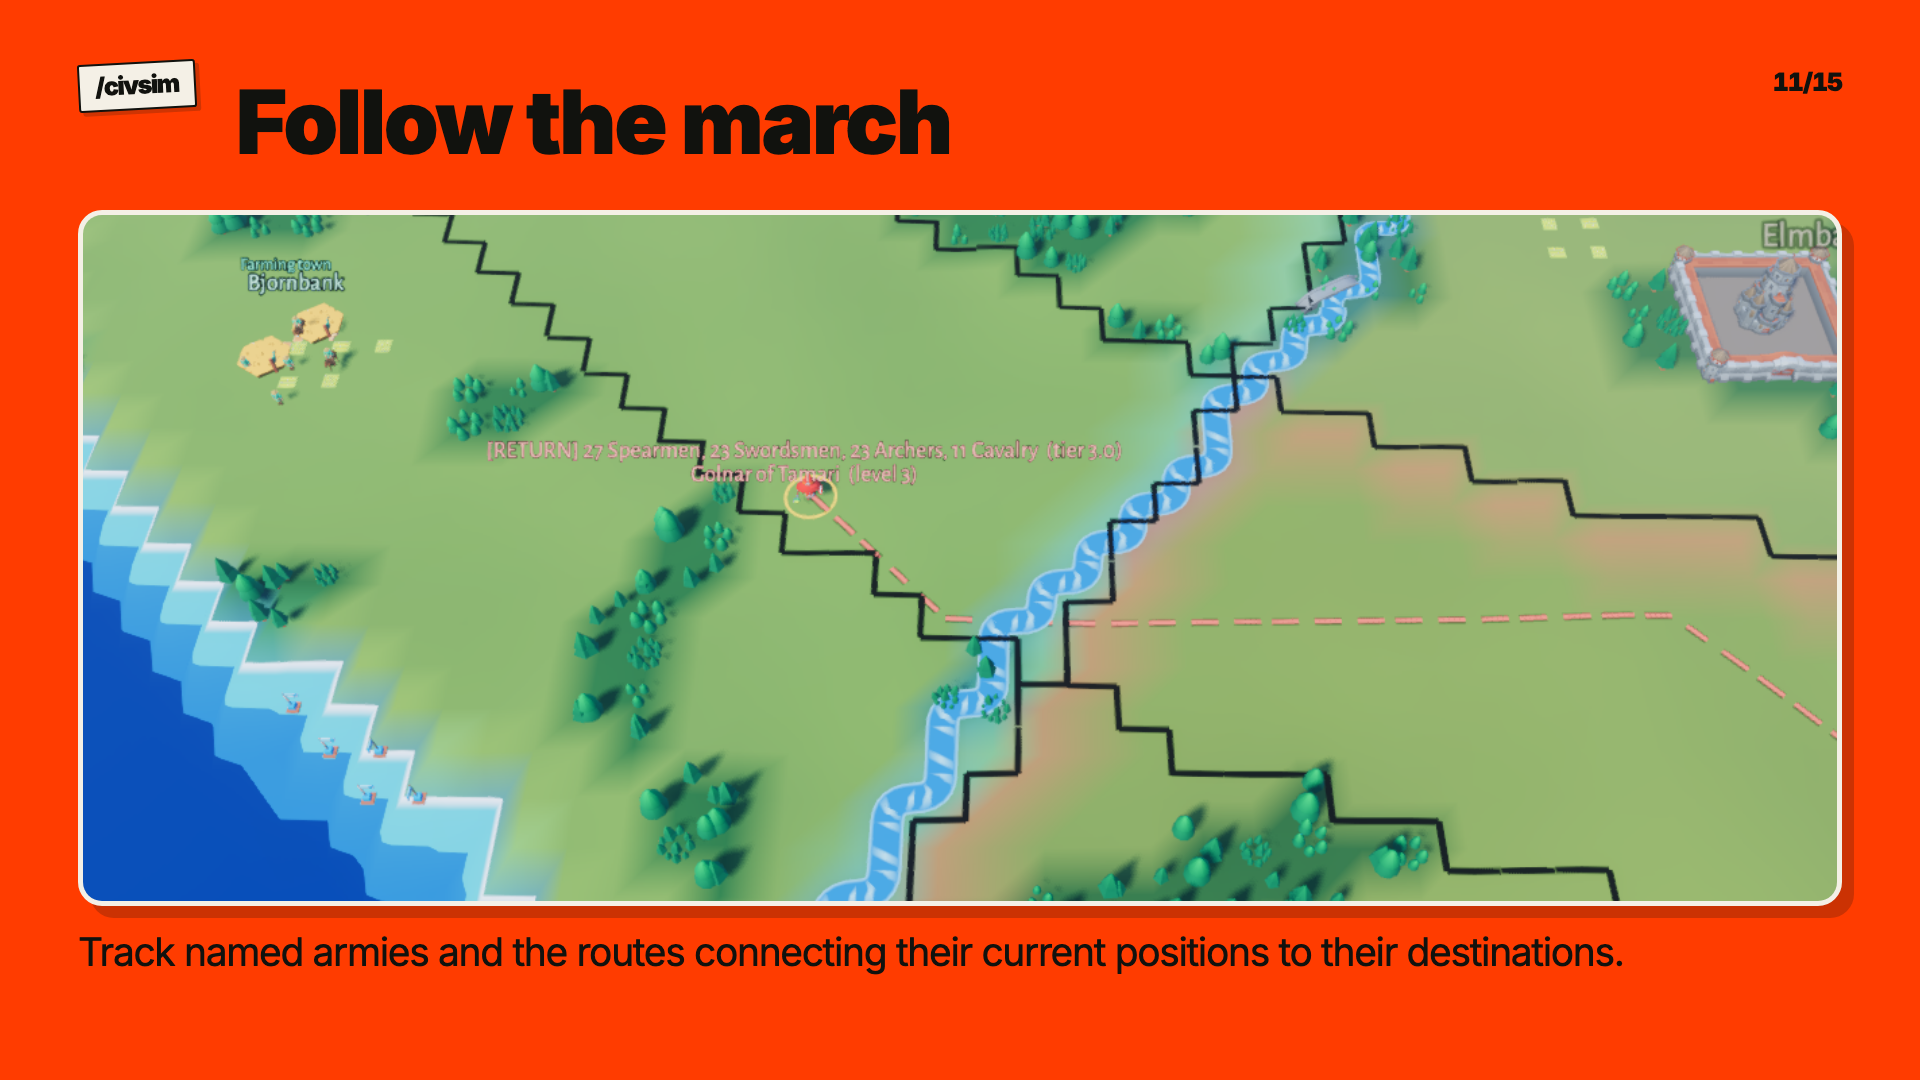
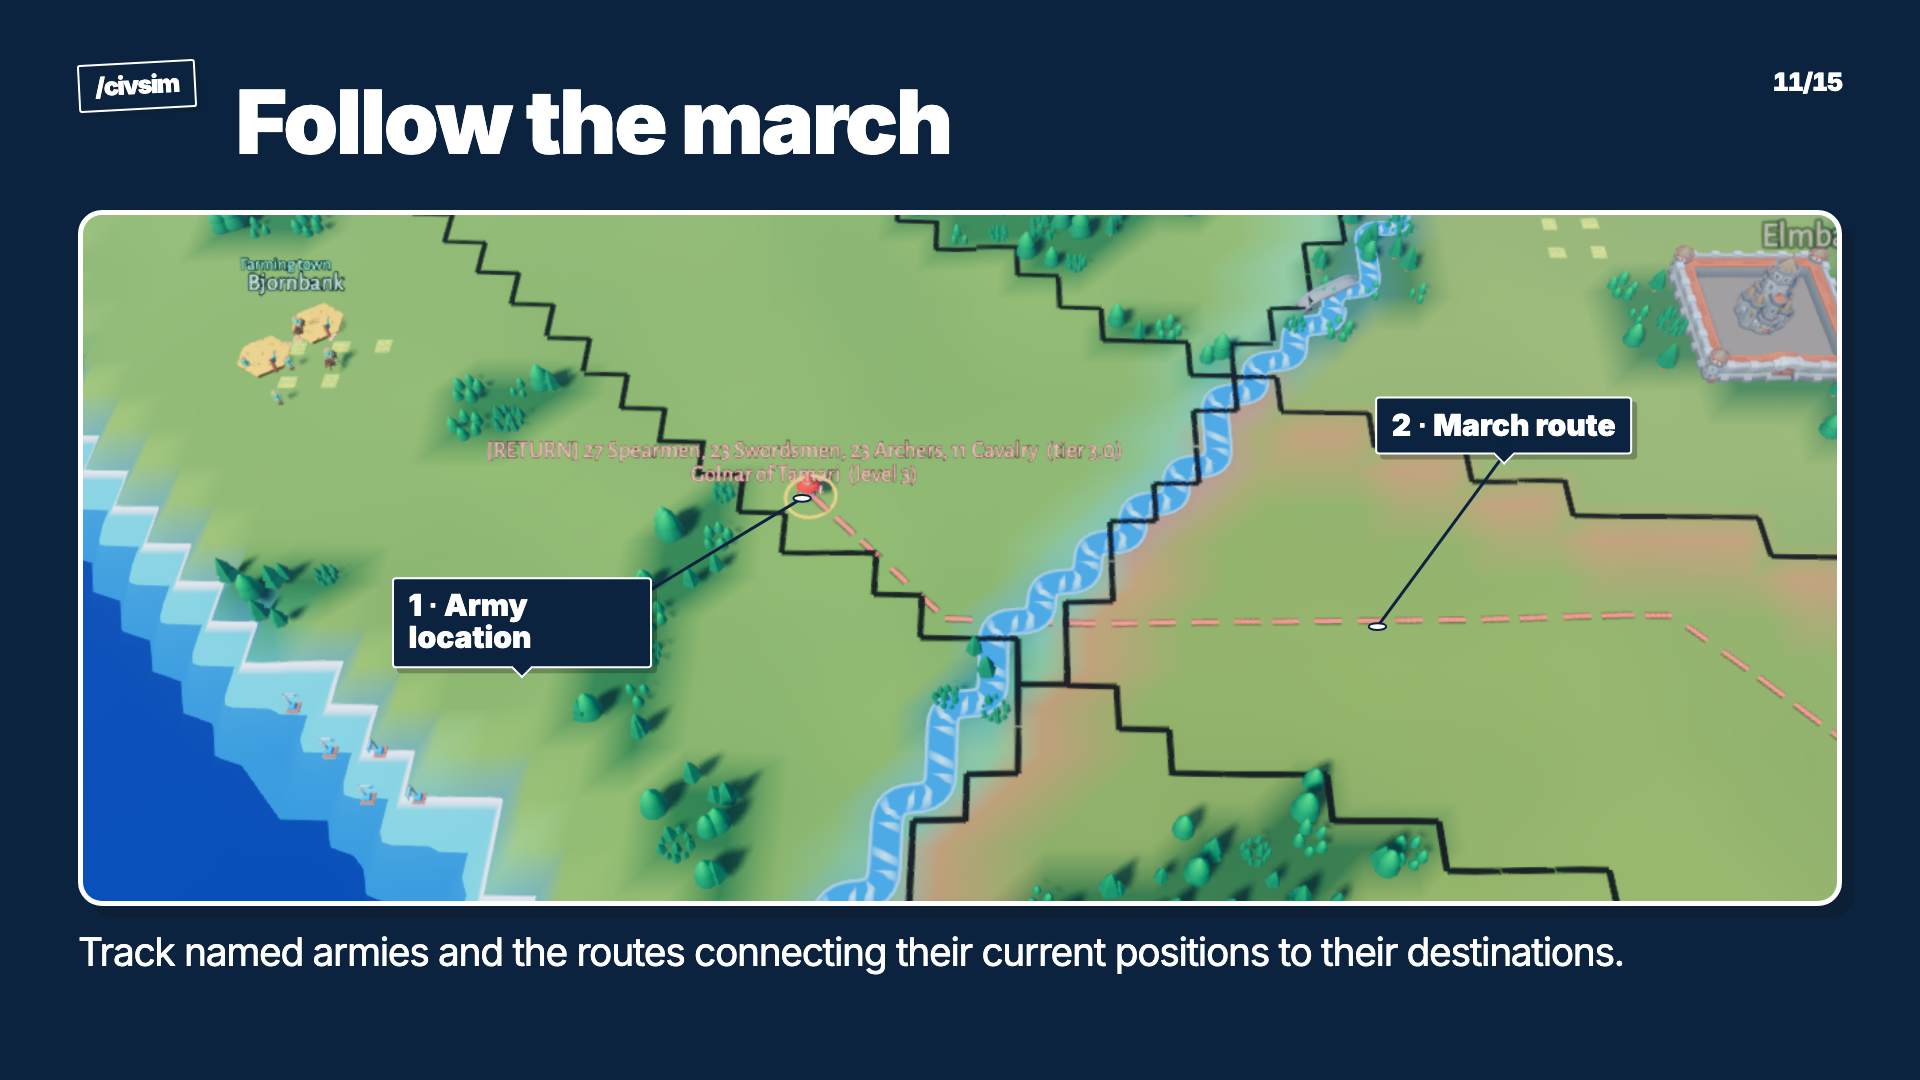
Polish 15 feature cards in navy and white with authentic campaign captures

diff --git a/GALLERY.md b/GALLERY.md
@@ -2,26 +2,27 @@
 
 Fifteen annotated views from development builds. Gameplay and presentation are still evolving.
 
-[← Project overview](README.md)
+**Tap or click any image to open it at full resolution.** Each feature also has a readable text caption below the image. Detail panels are excerpts from the same game view.
 
+[← Project overview](README.md)
 
 ## Choose your campaign
 
 ### 01. Rule a realm. Watch a world.
 
-![Rule a realm. Watch a world.. Take the crown yourself, or follow rival kingdoms as they build, negotiate and fight.](screenshots/features/01-choice.png)
+[![Rule a realm. Watch a world. Take the crown yourself, or follow rival kingdoms as they build, negotiate and fight.](screenshots/features/01-choice.png)](screenshots/features/01-choice.png)
 
 Take the crown yourself, or follow rival kingdoms as they build, negotiate and fight.
 
 ### 02. A world of rival kingdoms
 
-![A world of rival kingdoms. Follow changing borders, competing rulers and the alliances that connect their realms.](screenshots/features/02-world.png)
+[![A world of rival kingdoms. Follow changing borders, competing rulers and the alliances that connect their realms.](screenshots/features/02-world.png)](screenshots/features/02-world.png)
 
 Follow changing borders, competing rulers and the alliances that connect their realms.
 
 ### 03. Choose your battlefield
 
-![Choose your battlefield. Explore nine handcrafted maps, with room for six civilizations on every large map.](screenshots/features/03-maps.png)
+[![Choose your battlefield. Explore nine handcrafted maps, with room for six civilizations on every large map.](screenshots/features/03-maps.png)](screenshots/features/03-maps.png)
 
 Explore nine handcrafted maps, with room for six civilizations on every large map.
 
@@ -29,19 +30,19 @@ Explore nine handcrafted maps, with room for six civilizations on every large ma
 
 ### 04. Build a thriving realm
 
-![Build a thriving realm. Inspect a castle, its buildings and its people as your settlements grow.](screenshots/features/04-settlement.png)
+[![Build a thriving realm. Inspect a castle, its buildings and its people as your settlements grow.](screenshots/features/04-settlement.png)](screenshots/features/04-settlement.png)
 
 Inspect a castle, its buildings and its people as your settlements grow.
 
 ### 05. Shape your realm’s future
 
-![Shape your realm’s future. Choose research paths and see which civilizations have discovered each technology.](screenshots/features/05-research.png)
+[![Shape your realm’s future. Choose research paths and see which civilizations have discovered each technology.](screenshots/features/05-research.png)](screenshots/features/05-research.png)
 
 Choose research paths and see which civilizations have discovered each technology.
 
 ### 06. Choose your allies carefully
 
-![Choose your allies carefully. See who stands together as rivalries develop and kingdoms answer their allies’ calls.](screenshots/features/06-alliances.png)
+[![Choose your allies carefully. See who stands together as rivalries develop and kingdoms answer their allies’ calls.](screenshots/features/06-alliances.png)](screenshots/features/06-alliances.png)
 
 See who stands together as rivalries develop and kingdoms answer their allies’ calls.
 
@@ -49,58 +50,58 @@ See who stands together as rivalries develop and kingdoms answer their allies’
 
 ### 07. Give your realm direction
 
-![Give your realm direction. Set priorities, queue construction and research, and follow your orders as they progress.](screenshots/features/07-orders.png)
+[![Give your realm direction. Set priorities, queue construction and research, and follow your orders as they progress.](screenshots/features/07-orders.png)](screenshots/features/07-orders.png)
 
 Set priorities, queue construction and research, and follow your orders as they progress.
 
 ### 08. Understand the ruler
 
-![Understand the ruler. Read a realm’s concerns, its ruler’s outlook and its relationships with other civilizations.](screenshots/features/08-outlook.png)
+[![Understand the ruler. Read a realm’s concerns, its ruler’s outlook and its relationships with other civilizations.](screenshots/features/08-outlook.png)](screenshots/features/08-outlook.png)
 
 Read a realm’s concerns, its ruler’s outlook and its relationships with other civilizations.
 
 ### 09. Every crown has a family
 
-![Every crown has a family. Follow marriages, heirs and succession through the royal family tree.](screenshots/features/09-dynasty.png)
+[![Every crown has a family. Meet the current ruler and named heir in the royal family tree.](screenshots/features/09-dynasty.png)](screenshots/features/09-dynasty.png)
 
-Follow marriages, heirs and succession through the royal family tree.
+Meet the current ruler and named heir in the royal family tree.
 
 ## Command your armies
 
 ### 10. Meet your commanders
 
-![Meet your commanders. Inspect the general leading an army and the troops under their command.](screenshots/features/10-commanders.png)
+[![Meet your commanders. Inspect the general leading an army and the troops under their command.](screenshots/features/10-commanders.png)](screenshots/features/10-commanders.png)
 
 Inspect the general leading an army and the troops under their command.
 
 ### 11. Follow the march
 
-![Follow the march. Track named armies and the routes connecting their current positions to their destinations.](screenshots/features/11-marching.png)
+[![Follow the march. Track named armies and the routes connecting their current positions to their destinations.](screenshots/features/11-marching.png)](screenshots/features/11-marching.png)
 
 Track named armies and the routes connecting their current positions to their destinations.
 
 ### 12. Take the walls
 
-![Take the walls. Watch armies prepare, breach defenses and assault a castle during a siege.](screenshots/features/12-siege.png)
+[![Take the walls. A real castle assault, with the walls breached and the attacking army outside the defenses.](screenshots/features/12-siege.png)](screenshots/features/12-siege.png)
 
-Watch armies prepare, breach defenses and assault a castle during a siege.
+A real castle assault, with the walls breached and the attacking army outside the defenses.
 
 ## Follow the story
 
 ### 13. History as it happens
 
-![History as it happens. Read the campaign’s Chronicle, from changing treaties to royal events and battlefield news.](screenshots/features/13-chronicle.png)
+[![History as it happens. Read the campaign’s Chronicle, from changing treaties to royal events and battlefield news.](screenshots/features/13-chronicle.png)](screenshots/features/13-chronicle.png)
 
 Read the campaign’s Chronicle, from changing treaties to royal events and battlefield news.
 
 ### 14. Every war leaves a mark
 
-![Every war leaves a mark. Review the campaign’s participants, recorded losses and the settlement that ended the fighting.](screenshots/features/14-aftermath.png)
+[![Every war leaves a mark. A 73-day campaign: 43 soldiers lost, Bone Flats captured, and Ossyria eliminated.](screenshots/features/14-aftermath.png)](screenshots/features/14-aftermath.png)
 
-Review the campaign’s participants, recorded losses and the settlement that ended the fighting.
+A 73-day campaign: 43 soldiers lost, Bone Flats captured, and Ossyria eliminated.
 
 ### 15. Learn as you play
 
-![Learn as you play. An illustrated guide explains objectives, buildings, map icons and the controls.](screenshots/features/15-guide.png)
+[![Learn as you play. An illustrated guide explains objectives, buildings, map icons and the controls.](screenshots/features/15-guide.png)](screenshots/features/15-guide.png)
 
 An illustrated guide explains objectives, buildings, map icons and the controls.
